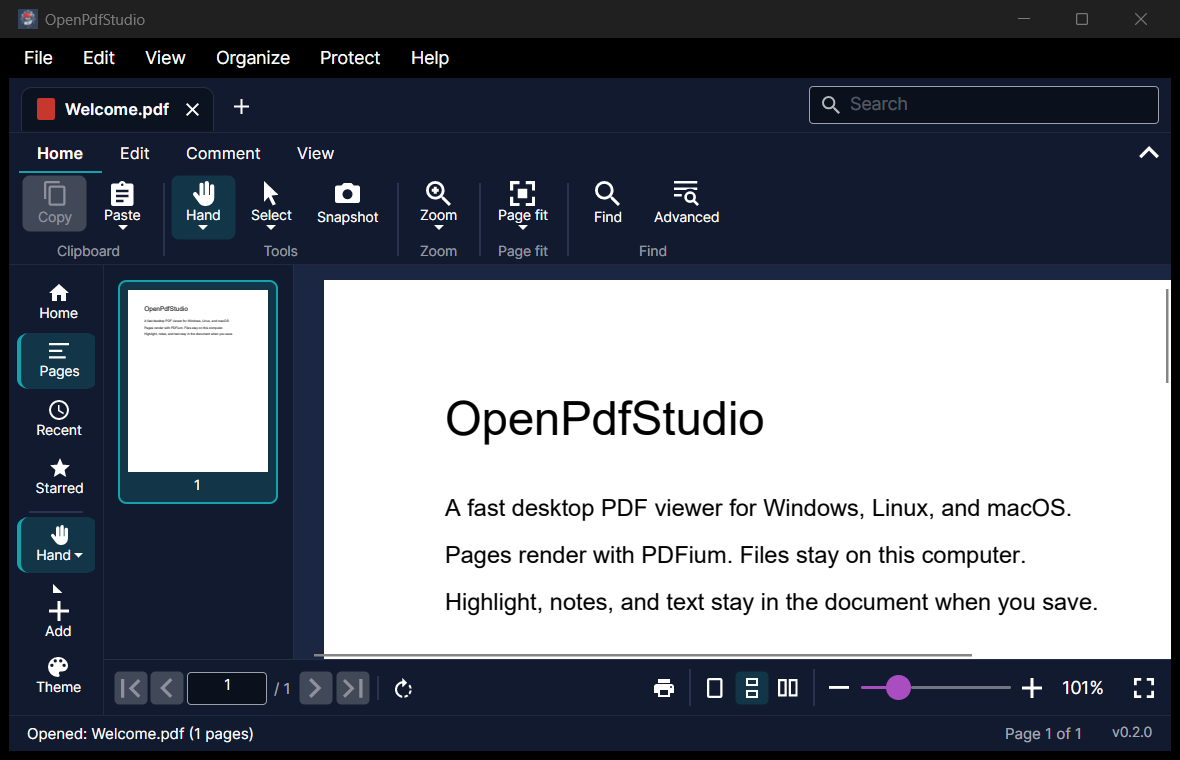
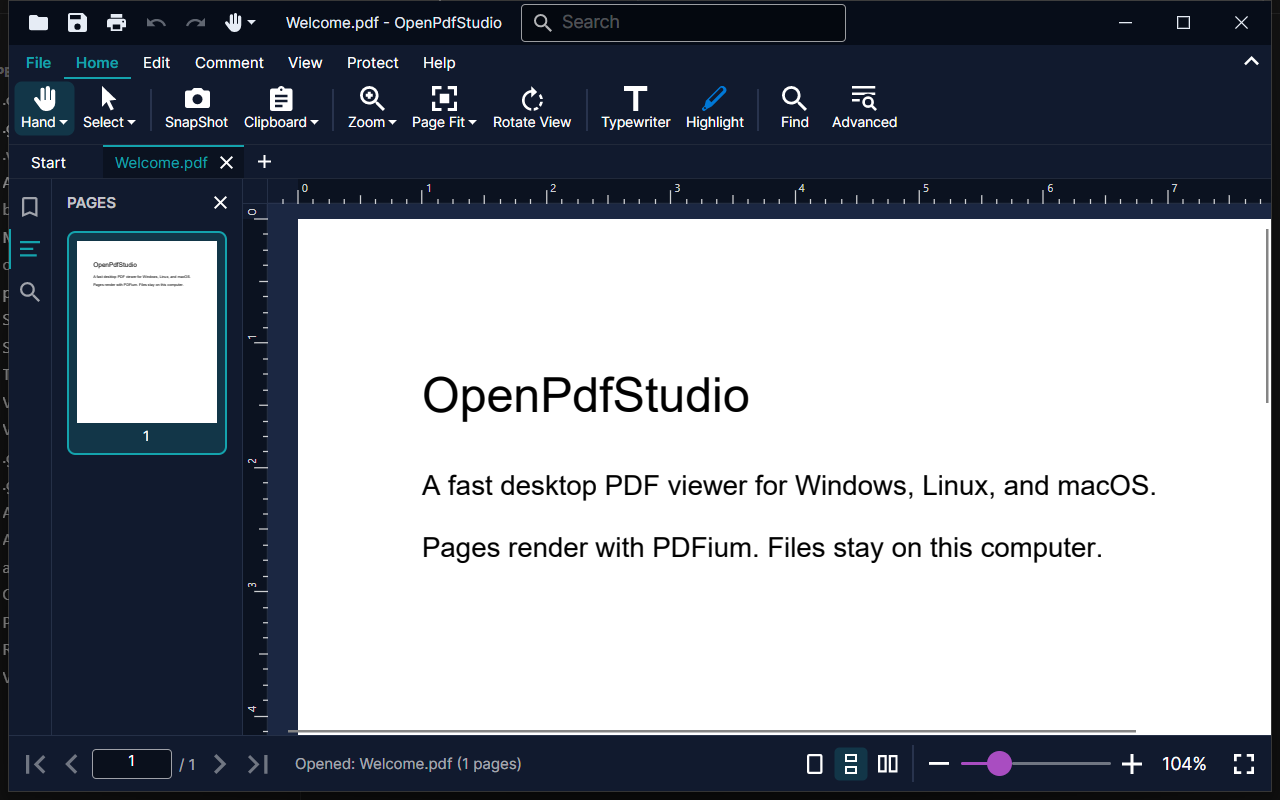
Show the ribbon and the New Task home on the website.

diff --git a/index.html b/index.html
@@ -38,18 +38,18 @@
           <h1>Read PDFs without the clutter.</h1>
           <p class="lede">
             OpenPdfStudio is a fast desktop PDF viewer for Windows, Linux, and macOS.
-            It renders pages with PDFium, the engine behind Chrome's PDF viewer,
-            and keeps the interface out of your way.
+            A ribbon keeps reading, comments, and page tools in one place, and pages
+            render with PDFium, the engine behind Chrome's PDF viewer.
           </p>
           <div class="hero-actions">
             <a class="btn btn-primary" href="#download">Download</a>
             <a class="btn btn-ghost" href="https://github.com/younisiqbal/OpenPdfStudio">View source</a>
           </div>
-          <p class="hero-note">No account and no installer. Unzip and run.</p>
+          <p class="hero-note">No account. Use the installer, or unzip and run.</p>
         </div>
 
-        <img class="hero-shot" src="app.png" width="1180" height="760"
-             alt="OpenPdfStudio open on a PDF, with the ribbon, page thumbnails, and the document.">
+        <img class="hero-shot" src="app.png" width="1280" height="800"
+             alt="OpenPdfStudio open on a PDF, with the ribbon, document tabs, page thumbnails, and rulers.">
       </div>
     </section>
 
@@ -74,14 +74,19 @@
             <p>Switch to the select tool, drag across text on any page, and copy it to the clipboard.</p>
           </article>
           <article class="card">
+            <svg viewBox="0 0 24 24"><path d="M21,5H3A1,1 0 0,0 2,6V8H22V6A1,1 0 0,0 21,5M22,10H2V18A1,1 0 0,0 3,19H21A1,1 0 0,0 22,18V10M6,14H10V16H6V14M12,14H18V16H12V14Z"/></svg>
+            <h3>Ribbon</h3>
+            <p>Home, Edit, Comment, View, Protect, and Help. Open, Save, Print, Undo, Redo, and Hand or Select stay in the title bar.</p>
+          </article>
+          <article class="card">
             <svg viewBox="0 0 24 24"><path d="M3,4H11V20H3V4M5,6V18H9V6H5M13,4H21V20H13V4M15,6V18H19V6H15Z"/></svg>
             <h3>Tabs</h3>
-            <p>Open several documents at once and switch between them in tabs.</p>
+            <p>Open several documents at once. Their tabs sit under the ribbon, and Start brings you back to the home screen.</p>
           </article>
           <article class="card">
             <svg viewBox="0 0 24 24"><path d="M12,17.27L18.18,21L16.54,13.97L22,9.24L14.81,8.62L12,2L9.19,8.62L2,9.24L7.46,13.97L5.82,21L12,17.27Z"/></svg>
-            <h3>Recent and starred files</h3>
-            <p>The home screen keeps your recent files close, and you can star the ones you return to.</p>
+            <h3>New Task home</h3>
+            <p>A Recent and Starred sidebar, plus cards to open, organize, split, merge, and comment. Drop PDFs onto the window to open them.</p>
           </article>
           <article class="card">
             <svg viewBox="0 0 24 24"><path d="M12,17A2,2 0 0,0 14,15C14,13.89 13.1,13 12,13A2,2 0 0,0 10,15A2,2 0 0,0 12,17M18,8A2,2 0 0,1 20,10V20A2,2 0 0,1 18,22H6A2,2 0 0,1 4,20V10C4,8.89 4.9,8 6,8H7V6A5,5 0 0,1 12,1A5,5 0 0,1 17,6V8H18M12,3A3,3 0 0,0 9,6V8H15V6A3,3 0 0,0 12,3Z"/></svg>
@@ -170,7 +175,7 @@
     <section id="start" class="section section-alt">
       <div class="container">
         <h2>Get started</h2>
-        <p class="section-lede">Use an installer, or unzip the portable download and run it. You don't need to install .NET. Then open a PDF from the home screen or with Ctrl+O.</p>
+        <p class="section-lede">Use an installer, or unzip the portable download and run it. You don't need to install .NET. Then open a PDF from the home screen, with Ctrl+O, or by dropping it on the window.</p>
         <div class="os-guide">
           <article>
             <h3>Windows</h3>
